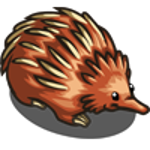
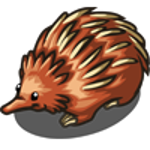
gui improvements

diff --git a/src/com/unexpected/ant/GameEngine.java b/src/com/unexpected/ant/GameEngine.java
@@ -1,7 +1,6 @@
 package com.unexpected.ant;
 
 
-import com.sun.javaws.exceptions.InvalidArgumentException;
 import com.unexpected.ant.gui.GameFrame;
 import com.unexpected.ant.gui.SwingViewFactory;
 import com.unexpected.ant.gui.ViewFactory;
@@ -82,12 +81,12 @@ public enum GameEngine {
 	}
 
 	private void initGameField(int x, int y) {
-        int fieldSizeX = 110;
-        int fieldSizeY = 130;
+		int fieldSizeX = 110;
+		int fieldSizeY = 130;
 
-        if(x % 2 != 0 || y % 2 != 0) {
-            throw new IllegalArgumentException("A pálya szélessége és magassága páros kell legyen!");
-        }
+		if (x % 2 != 0 || y % 2 != 0) {
+			throw new IllegalArgumentException("A pálya szélessége és magassága páros kell legyen!");
+		}
 
         /*
         * if map is X = 6 and Y = 8, it looks like this (the numbers are the cell ids'):
@@ -102,25 +101,25 @@ public enum GameEngine {
         *       7       15      23
         */
 
-        int fieldsNum = x*y/2;
+		int fieldsNum = x * y / 2;
 
 		Cell[] c = new Cell[fieldsNum];
 		for (int i = 0; i < fieldsNum; i++) {
 			c[i] = new Cell();
 			gameField.getCells().add(c[i]);
 			c[i].setPosition(
-                    ((i - (i % y)) / y) * fieldSizeX * 2 + ((i % y) >= (y / 2) ? (fieldSizeX * 2 / 2) : 0)
-                    ,
-                    ((i % y) % (y / 2)) * fieldSizeY + ((i % y) >= (y / 2) ? (fieldSizeY / 2) : 0)
-            );
+					((i - (i % y)) / y) * fieldSizeX * 2 + ((i % y) >= (y / 2) ? (fieldSizeX * 2 / 2) : 0)
+					,
+					((i % y) % (y / 2)) * fieldSizeY + ((i % y) >= (y / 2) ? (fieldSizeY / 2) : 0)
+			                );
 		}
 		gameFrame.repaint();
 
-        for(int i = 0; i < fieldsNum; i++) {
-            int base = i + fieldsNum; // Because the fucking JAVA can't use modulo if the number is negative
-            c[i].addNeighbour(Direction.NORTH, c[(base - 1  + (i % y == 0 ? y/2 : 0)) % fieldsNum]);
-            c[i].addNeighbour(Direction.NORTHEAST, c[(base + y/2 - ((i % y) < (y/2) ? 1 : 0) + (i % y == 0 ? y/2 : 0)) % fieldsNum]);
-            c[i].addNeighbour(Direction.NORTHWEST, c[(base - y/2 - ((i % y) < (y/2) ? 1 : 0) + (i % y == 0 ? y/2 : 0)) % fieldsNum]);
-        }
+		for (int i = 0; i < fieldsNum; i++) {
+			int base = i + fieldsNum; // Because the fucking JAVA can't use modulo if the number is negative
+			c[i].addNeighbour(Direction.NORTH, c[(base - 1 + (i % y == 0 ? y / 2 : 0)) % fieldsNum]);
+			c[i].addNeighbour(Direction.NORTHEAST, c[(base + y / 2 - ((i % y) < (y / 2) ? 1 : 0) + (i % y == 0 ? y / 2 : 0)) % fieldsNum]);
+			c[i].addNeighbour(Direction.NORTHWEST, c[(base - y / 2 - ((i % y) < (y / 2) ? 1 : 0) + (i % y == 0 ? y / 2 : 0)) % fieldsNum]);
+		}
 	}
 }

diff --git a/src/com/unexpected/ant/gui/Main.java b/src/com/unexpected/ant/gui/Main.java
@@ -8,9 +8,20 @@ public class Main {
 		GameEngine.INSTANCE.reset();
 		GameEngine.INSTANCE.getGameField().getCells().get(0).addEntity(new Food());
 		GameEngine.INSTANCE.getGameField().getCells().get(1).addEntity(new AntHill());
+		GameEngine.INSTANCE.getGameField().getCells().get(1).addEntity(new Obstacle(ObstacleType.PUDDLE));
 		GameEngine.INSTANCE.getGameField().getCells().get(2).addEntity(new Obstacle(ObstacleType.PUDDLE));
+		GameEngine.INSTANCE.getGameField().getCells().get(3).addEntity(new Obstacle(ObstacleType.PUDDLE));
+		GameEngine.INSTANCE.getGameField().getCells().get(4).addEntity(new Obstacle(ObstacleType.PUDDLE));
+		GameEngine.INSTANCE.getGameField().getCells().get(6).addEntity(new Obstacle(ObstacleType.PUDDLE));
+		GameEngine.INSTANCE.getGameField().getCells().get(9).addEntity(new Obstacle(ObstacleType.PUDDLE));
+		GameEngine.INSTANCE.getGameField().getCells().get(10).addEntity(new Obstacle(ObstacleType.PUDDLE));
+		GameEngine.INSTANCE.getGameField().getCells().get(11).addEntity(new Obstacle(ObstacleType.PUDDLE));
+		GameEngine.INSTANCE.getGameField().getCells().get(12).addEntity(new Obstacle(ObstacleType.PUDDLE));
+		GameEngine.INSTANCE.getGameField().getCells().get(13).addEntity(new Obstacle(ObstacleType.PUDDLE));
 		GameEngine.INSTANCE.getGameField().getCells().get(5).addEntity(new Echidna());
-		GameEngine.INSTANCE.getGameField().getCells().get(6).addEntity(new Food());
+		Echidna sleepingEchidna = new Echidna();
+		sleepingEchidna.sleep(10);
+		GameEngine.INSTANCE.getGameField().getCells().get(6).addEntity(sleepingEchidna);
 		GameEngine.INSTANCE.getGameFrame().setVisible(true);
 		GameEngine.INSTANCE.getGameFrame().repaint();
 		GameEngine.INSTANCE.getTimer().start();

diff --git a/src/com/unexpected/ant/model/entity/MovingEntity.java b/src/com/unexpected/ant/model/entity/MovingEntity.java
@@ -12,6 +12,7 @@ import java.util.Map;
  */
 public abstract class MovingEntity extends AbstractEntity {
 	protected Direction facingDirection;
+	private final Object lockObj = new Object();
 
 	public MovingEntity(Direction facingDirection) {
 		this.facingDirection = facingDirection;
@@ -22,6 +23,13 @@ public abstract class MovingEntity extends AbstractEntity {
 	 */
 	public MovingEntity() {
 		this(Direction.NORTH);
+	}
+
+	@Override
+	public void moveTo(Cell cell) {
+		Cell original = getCell();
+		super.moveTo(cell);
+		setFacingDirection(original.getNeighbourDirection(cell));
 	}
 
 	/**
@@ -60,7 +68,7 @@ public abstract class MovingEntity extends AbstractEntity {
 	 * The entity moves
 	 */
 	public void move() {
-		synchronized (this) {
+		synchronized (lockObj) {
 			if (!isRemoved()) {
 				Cell nextCell = decideNextCell();
 				moveTo(nextCell);
@@ -104,22 +112,5 @@ public abstract class MovingEntity extends AbstractEntity {
 	}
 
 	public abstract double rateCell(Cell cell, Direction direction);
-
-	/**
-	 * The ant moves to the given cell
-	 *
-	 * @param cell The moves to this cell
-	 */
-	public void moveTo(Cell cell) {
-		for (Cell cell1 : getCells()) {
-			cell1.removeEntity(this);
-		}
-
-		cell.addEntity(this);
-		setFacingDirection(getCell().getNeighbourDirection(cell));
-		this.cells.clear();
-		this.cells.add(cell);
-		updateView();
-	}
 
 }

diff --git a/src/com/unexpected/ant/model/entity/Echidna.java b/src/com/unexpected/ant/model/entity/Echidna.java
@@ -6,8 +6,6 @@ import com.unexpected.ant.model.Direction;
 import com.unexpected.ant.model.EntityVisitor;
 import com.unexpected.ant.model.EntityVisitorAdapter;
 
-import java.util.Map;
-
 /**
  * This class represents the echidna which moves on the game field and eats ants.
  */
@@ -89,25 +87,12 @@ public class Echidna extends MovingEntity {
 		return sleepCounter > 0;
 	}
 
-	/**
-	 * Decides about the next cell to move on to
-	 *
-	 * @return The next cell
-	 */
-	public Cell decideNextCell() {
-		for (Map.Entry<Direction, Cell> neighbour : getCell().getNeighboursMap().entrySet()) {
-			Direction direction = neighbour.getKey();
-			Cell cell = neighbour.getValue();
-//          MoveVisitor visitor = new MoveVisitor();
-			cell.getNeighbour(direction);
-		}
-
-		return getCell().getNeighbours().get(0);
-	}
-
-	@Override
 	public double rateCell(Cell cell, Direction direction) {
-		return 1;
+		int directionValue = direction.getRelativeDirectionTo(getFacingDirection()).value();
+		double weight = Math.abs(directionValue - Direction.values().length / 2) / 3.0;
+		SmellVisitor smellVisitor = new SmellVisitor();
+		cell.visitEntities(smellVisitor);
+		return weight * (1 + smellVisitor.getSmell());
 	}
 
 	/**

diff --git a/src/com/unexpected/ant/model/entity/Stone.java b/src/com/unexpected/ant/model/entity/Stone.java
@@ -1,5 +1,6 @@
 package com.unexpected.ant.model.entity;
 
+import com.unexpected.ant.model.Cell;
 import com.unexpected.ant.model.Direction;
 import com.unexpected.ant.model.EntityVisitor;
 import com.unexpected.ant.model.EntityVisitorAdapter;
@@ -35,9 +36,13 @@ public class Stone extends Obstacle {
 	public boolean kick(Direction direction) {
 
 		StoneVisitor stoneVisitor = new StoneVisitor();
-		getCell().getNeighbour(direction.getOpposite()).visitEntities(stoneVisitor);
-//        if(stoneVisitor)
-		return true;
+		Cell neighbour = getCell().getNeighbour(direction.getOpposite());
+		neighbour.visitEntities(stoneVisitor);
+		if (!stoneVisitor.hasStone) {
+			this.moveTo(neighbour);
+			return true;
+		}
+		return false;
 	}
 
 	@Override

diff --git a/src/com/unexpected/ant/model/AbstractEntity.java b/src/com/unexpected/ant/model/AbstractEntity.java
@@ -124,4 +124,20 @@ public abstract class AbstractEntity implements Entity, Dynamic {
 	public boolean isRemoved() {
 		return getCell() == null;
 	}
+
+	/**
+	 * Move to the given cell
+	 *
+	 * @param cell The moves to this cell
+	 */
+	public void moveTo(Cell cell) {
+		for (Cell cell1 : getCells()) {
+			cell1.removeEntity(this);
+		}
+
+		cell.addEntity(this);
+		this.cells.clear();
+		this.cells.add(cell);
+		updateView();
+	}
 }

diff --git a/src/com/unexpected/ant/gui/view/EchidnaView.java b/src/com/unexpected/ant/gui/view/EchidnaView.java
@@ -21,6 +21,6 @@ public class EchidnaView extends AbstractEntitySwingView<Echidna> {
 
 	@Override
 	public double getRotation() {
-		return (Math.PI * 2 * entity.getFacingDirection().value()) / 6 - Math.PI / 2;
+		return (Math.PI * 2 * entity.getFacingDirection().value()) / 6 + Math.PI / 2 + Math.PI / 6;
 	}
 }
